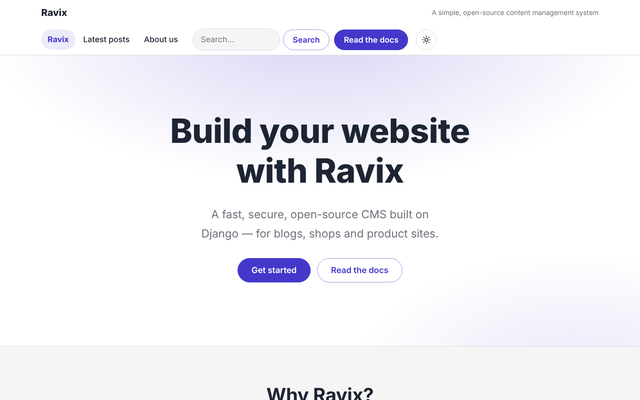
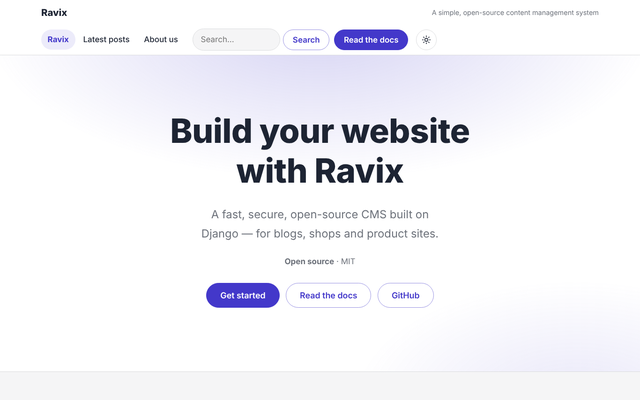
Nova theme 1.1.0
Uses several hero buttons, the features section with icons, Markdown text sections and per-language home texts; dark mode label and back-to-top link with their own translations in all nine locale files.

Changed region(s): [[0.3125, 0.63, 0.6562, 0.78], [0.4062, 0.96, 0.5938, 1.0]]

diff --git a/themes/nova/static/css/theme.css b/themes/nova/static/css/theme.css
@@ -81,7 +81,7 @@ ul.plain,ol.plain{list-style:none;margin:0;padding:0}
   border-radius:999px;padding:.45rem 1rem;min-height:2.6rem;min-width:0;width:11rem}
 .search-form input:focus{border-color:var(--accent);outline-offset:1px}
 .search-form-lg{margin-block:1rem 1.5rem;max-width:36rem}.search-form-lg input{flex:1;width:auto}
-@media (min-width:62em){.brand-tagline{display:inline;color:var(--rv-muted);font-size:.85rem}}
+@media (min-width:90em){.brand-tagline{display:inline;color:var(--rv-muted);font-size:.85rem}}
 /* mobile: the menu collapses (only when JS can open it) */
 @media (max-width:61.99em){
   .nav-js .header-panel{display:none;flex-basis:100%;order:5;flex-direction:column;align-items:stretch;padding-block:.5rem 1rem}
@@ -111,18 +111,17 @@ ul.plain,ol.plain{list-style:none;margin:0;padding:0}
 :lang(fa) .more::after,:lang(ar) .more::after{content:" ←"}
 .band-features{background:var(--rv-surface)}
 .band-features h2{text-align:center;font-size:clamp(1.6rem,4vw,2.4rem)}
-.article.article-wide{max-width:none;padding-block:0}
-.prose.features ul{padding:0;list-style:none;margin:0;padding:0;display:grid;gap:1rem;grid-template-columns:repeat(auto-fit,minmax(18rem,1fr))}
-.features li{background:var(--rv-bg);border:1px solid var(--rv-border);border-radius:var(--radius);padding:1.4rem 1.3rem;box-shadow:var(--shadow);
-  position:relative;overflow:hidden}
-.features li::before{content:"";display:block;width:2.4rem;height:.35rem;border-radius:99px;background:var(--rv-primary);margin-bottom:.9rem}
-.features li strong{display:block;font-size:1.1rem;margin-bottom:.3rem}
-.features-text{display:grid;gap:1rem;grid-template-columns:repeat(auto-fit,minmax(18rem,1fr))}
-.features-text>*+*{margin-block-start:0}
-.features-text>p{background:var(--rv-bg);border:1px solid var(--rv-border);border-radius:var(--radius);padding:1.4rem 1.3rem;box-shadow:var(--shadow);margin:0}
-.features-text>p::before{content:"";display:block;width:2.4rem;height:.35rem;border-radius:99px;background:var(--rv-primary);margin-bottom:.9rem}
-.section-link{text-align:center;margin-block-start:1.5rem}
-.features>:not(ul):not(p){max-width:44rem;margin-inline:auto;text-align:center;color:var(--rv-muted)}
+.features-head{text-align:center;max-width:44rem;margin:0 auto 2rem}
+.features-head h2{font-size:clamp(1.6rem,4vw,2.4rem);margin-bottom:.4em}
+.features-sub{color:var(--rv-muted);font-size:1.1rem;margin:0}
+.feature-grid{list-style:none;margin:0;padding:0;display:grid;gap:1rem;grid-template-columns:repeat(auto-fit,minmax(min(100%,18rem),1fr))}
+.feature{background:var(--rv-bg);border:1px solid var(--rv-border);border-radius:var(--radius);padding:1.4rem 1.3rem;box-shadow:var(--shadow)}
+.feature-icon{display:inline-grid;place-items:center;width:2.8rem;height:2.8rem;border-radius:var(--radius-sm);margin-bottom:.9rem;
+  background:var(--rv-primary-soft);color:var(--accent)}
+.feature h3{font-size:1.12rem;margin-bottom:.3rem}
+.feature p{margin:0;color:var(--rv-muted);font-size:.97rem}
+.section-actions{justify-content:flex-start;margin-block-start:1.2rem}
+.to-top{color:inherit}
 .cat-list{list-style:none;margin:0;padding:0;display:grid;gap:1rem;grid-template-columns:repeat(auto-fill,minmax(18rem,1fr))}
 .cat-list a{display:flex;flex-direction:column;gap:.2rem;height:100%;padding:1.2rem;border:1px solid var(--rv-border);border-radius:var(--radius);
   background:var(--rv-surface);color:var(--rv-text);text-decoration:none}
@@ -244,3 +243,4 @@ ul.plain,ol.plain{list-style:none;margin:0;padding:0}
 
 @media (prefers-reduced-motion:reduce){*,*::before,*::after{transition:none!important;animation:none!important;scroll-behavior:auto!important}}
 @media print{.site-header,.site-footer,.theme-toggle,.comments,.related{display:none}body{background:#fff;color:#000}}
+.section-link{margin-block-start:1.5rem}

diff --git a/themes/nova/templates/home.html b/themes/nova/templates/home.html
@@ -13,8 +13,27 @@
         {% if forloop.first %}<h1 class="hero-title">{{ s.title }}</h1>{% else %}<h2 class="hero-title">{{ s.title }}</h2>{% endif %}
         {% if s.subtitle %}<p class="hero-sub">{{ s.subtitle }}</p>{% endif %}
         {% if s.body_html %}<div class="hero-body">{{ s.body_html }}</div>{% endif %}
-        {% if s.button_url or header.cta %}<p class="hero-actions">{% if s.button_url %}<a class="btn btn-lg" href="{{ s.button_url }}">{{ s.button_label }}</a>{% endif %}{% if header.cta %}<a class="btn btn-lg btn-quiet" href="{{ header.cta.url }}">{{ header.cta.label }}</a>{% endif %}</p>{% endif %}
+        {% if s.buttons %}<p class="hero-actions">{% for b in s.buttons %}<a class="btn btn-lg{% if not forloop.first %} btn-quiet{% endif %}" href="{{ b.url }}">{{ b.label }}</a>{% endfor %}</p>{% endif %}
       </div>
+    </div>
+  </section>
+
+  {% elif s.type == "features" %}
+  <section class="band band-features" aria-labelledby="sec-{{ forloop.counter }}">
+    <div class="container">
+      <header class="features-head">
+        <h2 id="sec-{{ forloop.counter }}">{% if s.title %}{{ s.title }}{% else %}{% trans "Features" %}{% endif %}</h2>
+        {% if s.subtitle %}<p class="features-sub" dir="auto">{{ s.subtitle }}</p>{% endif %}
+      </header>
+      <ul class="feature-grid">
+        {% for item in s.items %}
+        <li class="feature">
+          {% if item.icon %}<span class="feature-icon">{% feature_icon item.icon 24 %}</span>{% endif %}
+          {% if item.title %}<h3 dir="auto">{{ item.title }}</h3>{% endif %}
+          {% if item.text %}<p dir="auto">{{ item.text }}</p>{% endif %}
+        </li>
+        {% endfor %}
+      </ul>
     </div>
   </section>
 
@@ -44,23 +63,24 @@
   </section>
 
   {% elif s.type == "page" %}
-  <section class="band{% if '<ul' in s.page.body_html %} band-features{% endif %}" aria-labelledby="sec-{{ forloop.counter }}">
+  <section class="band" aria-labelledby="sec-{{ forloop.counter }}">
     <div class="container">
-      <div class="article{% if '<ul' in s.page.body_html %} article-wide{% endif %}">
+      <div class="article">
         <h2 id="sec-{{ forloop.counter }}">{{ s.title }}</h2>
-        <div class="prose{% if '<ul' in s.page.body_html %} features{% endif %}">{{ s.page.body_html }}</div>
+        <div class="prose">{{ s.page.body_html }}</div>
         <p class="section-link"><a class="more" href="{{ s.page.url }}">{% blocktrans trimmed with title=s.page.title %}Continue on the “{{ title }}” page{% endblocktrans %}</a></p>
       </div>
     </div>
   </section>
 
   {% elif s.type == "text" %}
-  <section class="band{% if '</p>\n\n<p>' in s.body_html %} band-features{% endif %}"{% if s.title %} aria-labelledby="sec-{{ forloop.counter }}"{% endif %}>
+  <section class="band"{% if s.title %} aria-labelledby="sec-{{ forloop.counter }}"{% endif %}>
     <div class="container">
-      <div class="article{% if '</p>\n\n<p>' in s.body_html %} article-wide{% endif %}">
+      <div class="article">
         {% if s.title %}<h2 id="sec-{{ forloop.counter }}">{{ s.title }}</h2>{% endif %}
-        <div class="prose{% if '</p>\n\n<p>' in s.body_html %} features features-text{% endif %}">{{ s.body_html }}</div>
-        {% if s.button_url %}<p><a class="btn" href="{{ s.button_url }}">{{ s.button_label }}</a></p>{% endif %}
+        {% if s.subtitle %}<p class="muted" dir="auto">{{ s.subtitle }}</p>{% endif %}
+        <div class="prose">{{ s.body_html }}</div>
+        {% if s.buttons %}<p class="hero-actions section-actions">{% for b in s.buttons %}<a class="btn{% if not forloop.first %} btn-quiet{% endif %}" href="{{ b.url }}">{{ b.label }}</a>{% endfor %}</p>{% endif %}
       </div>
     </div>
   </section>

diff --git a/themes/nova/templates/base.html b/themes/nova/templates/base.html
@@ -49,7 +49,7 @@
     <button type="button" class="icon-btn theme-toggle" aria-pressed="false" hidden>
       <svg class="i-sun" viewBox="0 0 24 24" width="20" height="20" aria-hidden="true" focusable="false"><circle cx="12" cy="12" r="4" fill="none" stroke="currentColor" stroke-width="2"/><path d="M12 2v2m0 16v2M4.9 4.9l1.4 1.4m11.4 11.4 1.4 1.4M2 12h2m16 0h2M4.9 19.1l1.4-1.4m11.4-11.4 1.4-1.4" stroke="currentColor" stroke-width="2" stroke-linecap="round"/></svg>
       <svg class="i-moon" viewBox="0 0 24 24" width="20" height="20" aria-hidden="true" focusable="false"><path d="M20 14.5A8 8 0 0 1 9.5 4a8 8 0 1 0 10.5 10.5z" fill="none" stroke="currentColor" stroke-width="2" stroke-linejoin="round"/></svg>
-      <span class="sr-only">{% trans "Theme" %}</span>
+      <span class="sr-only">{% trans "Dark mode" %}</span>
     </button>
   </div>
 </header>
@@ -95,7 +95,7 @@
     </div>
     {% endif %}
   </div>
-  <div class="container footer-credit"><p>{% trans "Built with Ravix" %}</p><div class="lang-switch">{% language_switcher %}</div></div>
+  <div class="container footer-credit"><p>{% trans "Built with Ravix" %} · <a class="to-top" href="#main">{% trans "Back to top" %}</a></p><div class="lang-switch">{% language_switcher %}</div></div>
 </footer>
 </body>
 </html>

diff --git a/themes/nova/README.md b/themes/nova/README.md
@@ -1,7 +1,7 @@
 # Nova
 
 A modern, clean theme for [Ravix](https://ravixcms.com) — made for an open-source product site that also runs a blog.
-Version 1.0.0 · api_version 1 · author Ravix.
+Version 1.1.0 · api_version 1 · author Ravix.
 
 ## Highlights
 - **Home page**: large hero (title, tagline and two buttons), a feature grid, and latest posts as image cards.
@@ -13,14 +13,15 @@ Version 1.0.0 · api_version 1 · author Ravix.
 - **Accessible**: skip link, visible focus, semantic landmarks, AA contrast, `prefers-reduced-motion`.
 - Primary colour, fonts and size come from the panel's *Customize* screen (`--rv-*` variables).
 
-## Setting up the home page
-1. **Hero** section: title, subtitle and its *button* are the first button. The **second button** is the site header's
-   call-to-action (*Customize → Header → CTA*).
-2. **Features**: add a *Text* section whose body is a bullet list; each item (`**Title** description`) becomes a card.
-3. **Latest posts** section: shown as cards with the featured image.
+## Setting up the home page (Customize → Home page)
+- **Hero**: title, subtitle, an optional Markdown body and **up to three buttons** (the first is filled, the others outlined).
+- **Features** section: one line per item, `icon | title | short text`; each item becomes a card with an icon.
+- **Text** section: Markdown (headings, lists, links, bold…), optional buttons.
+- **Latest posts**: cards with the featured image. **Categories** and **Page** sections work as in any Ravix theme.
+- **Languages**: every language has its own tab in the same screen for the hero, features, text and button labels; an empty field falls back to the default language.
 
 ## Install
-Panel → Themes → Upload ZIP (`nova-1.0.0.zip`), then activate and run `collectstatic` if your deployment needs it.
+Panel → Themes → Upload ZIP (`nova-1.1.0.zip`), then activate and run `collectstatic` if your deployment needs it.
 
 ## Notes
 In dark mode Nova uses its own dark palette for background, surface, text and border; the panel's primary colour is kept
